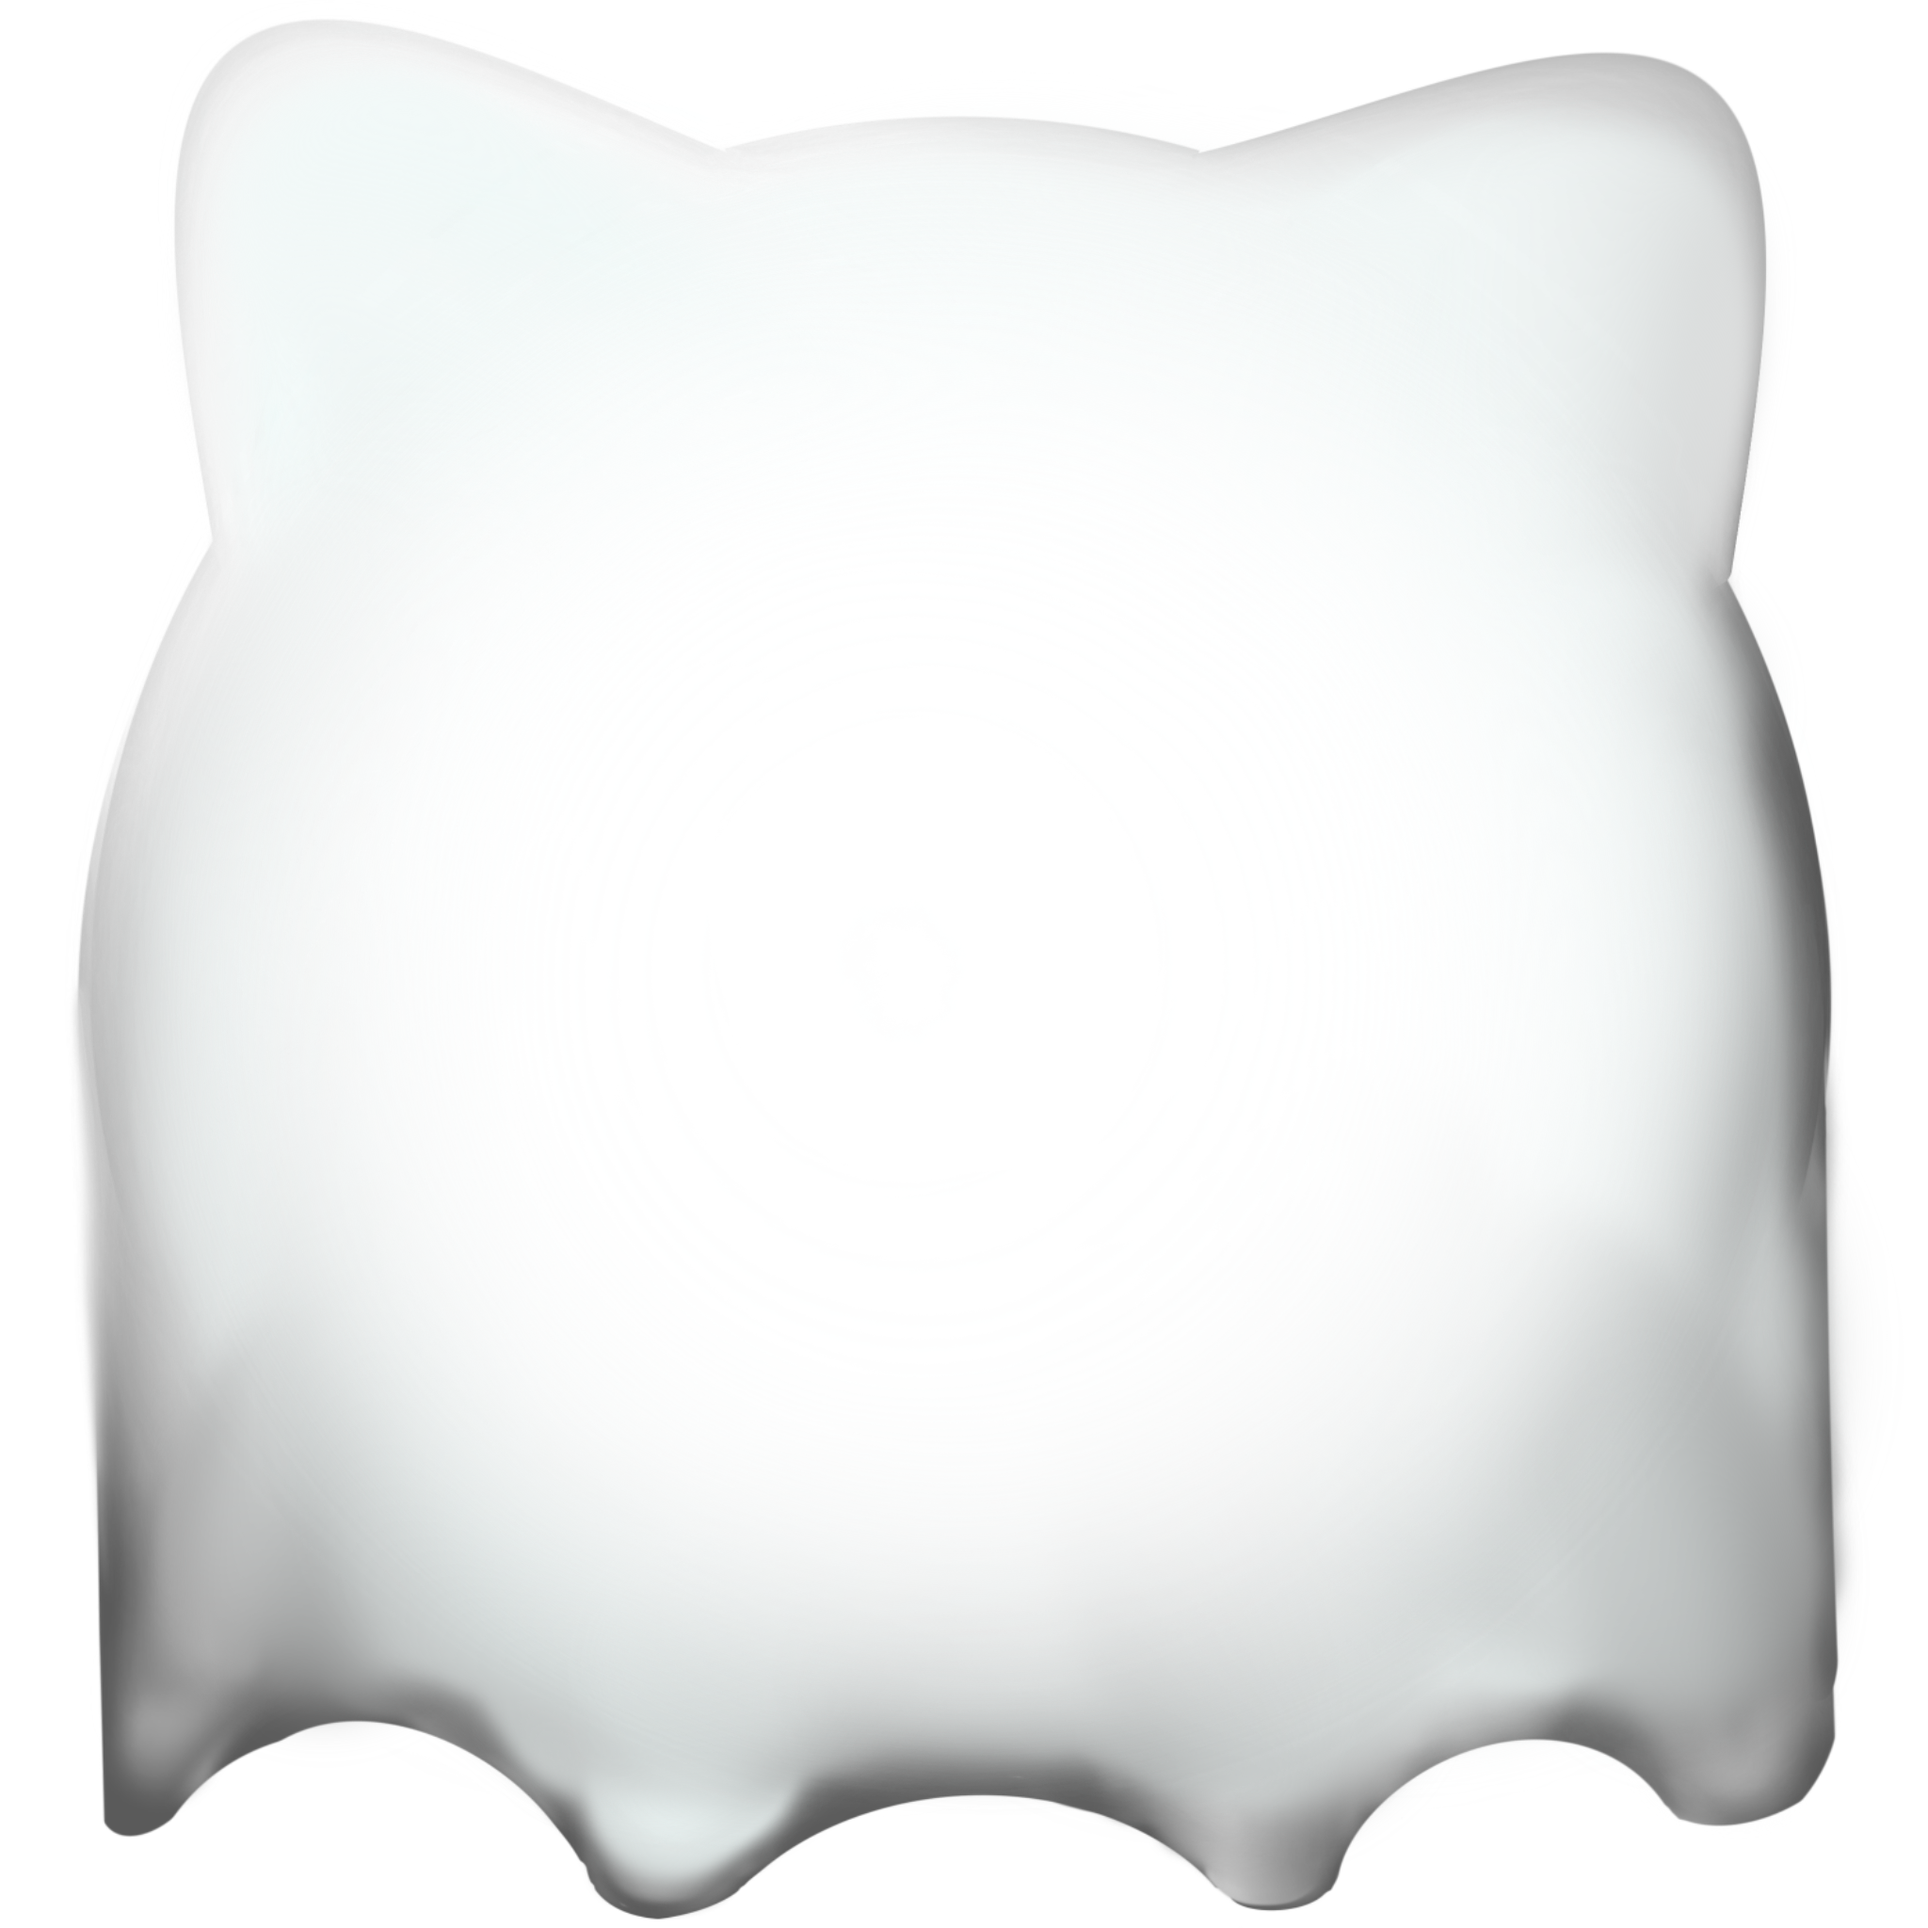
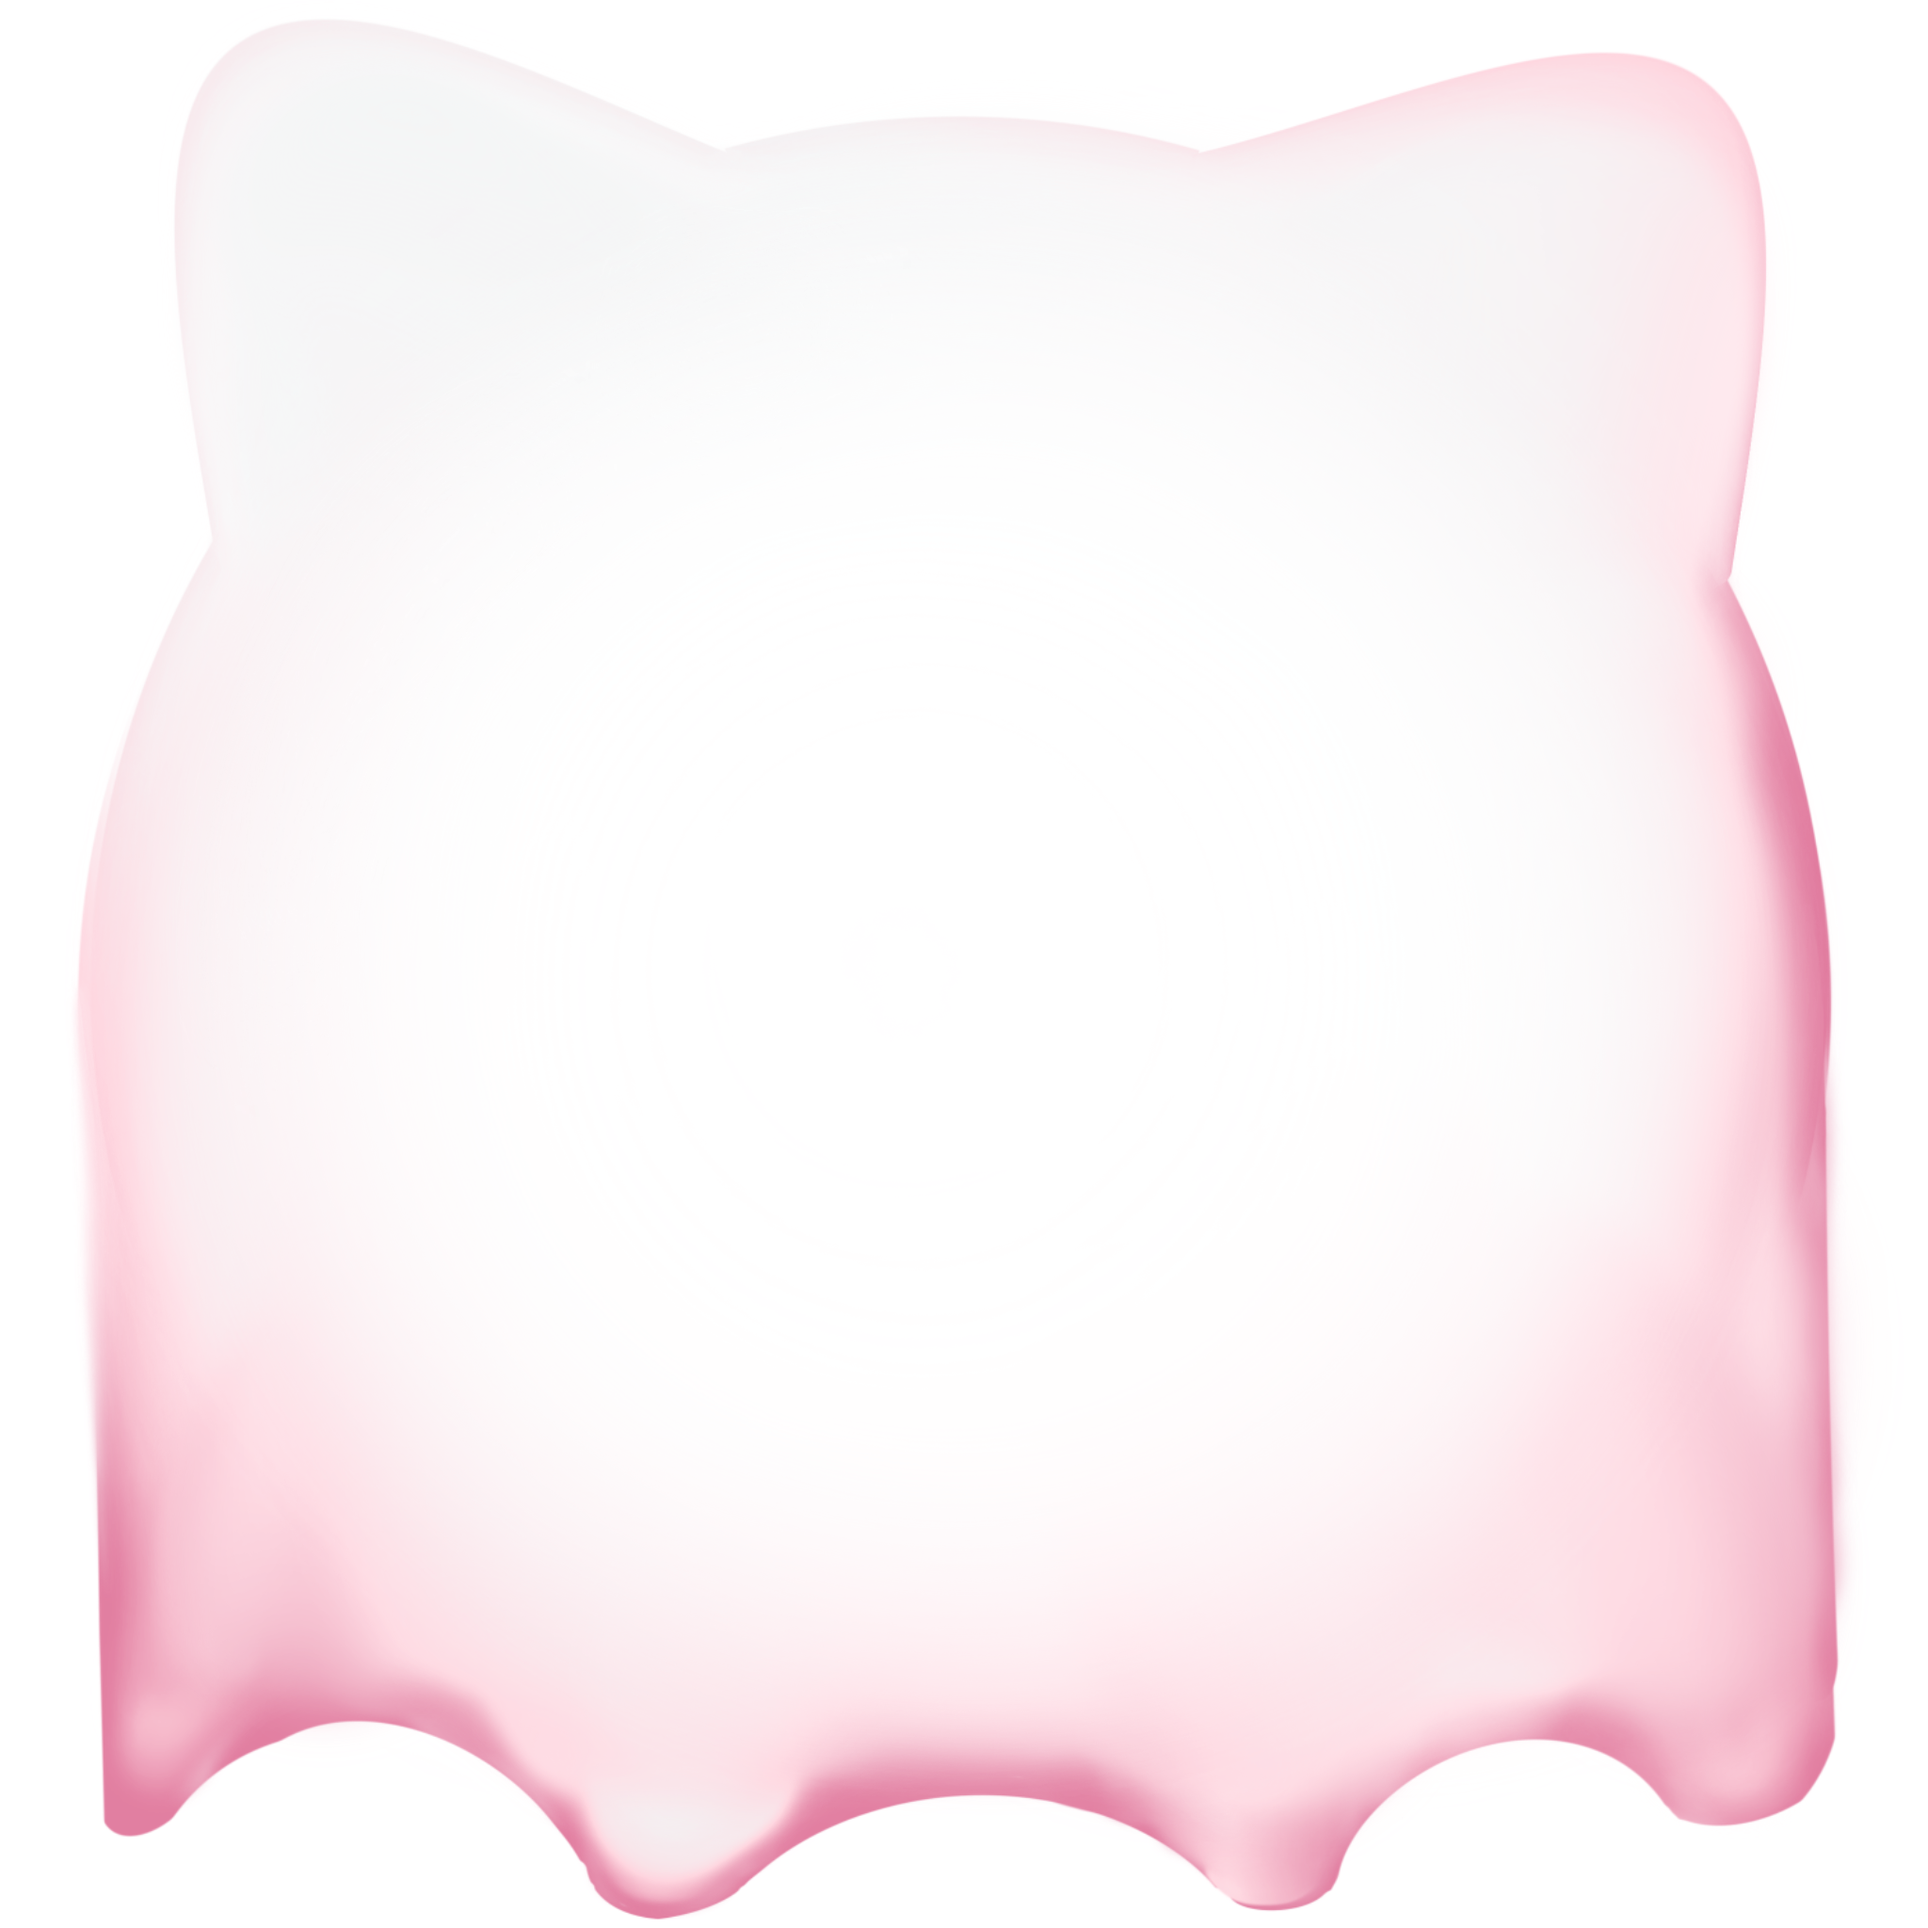
particle fixes

Changed region(s): [[0.0312, 0.0, 0.9688, 1.0]]

diff --git a/src/main.cpp b/src/main.cpp
@@ -354,25 +354,29 @@ void emit_particles(const App* app, Particle* particles, int x, int y, SDL_Color
 		particle->vx = cosf(angle) * speed;
 		particle->vy = sinf(angle) * speed;
 		particle->lifetime = (float)(rand() % 1000 + 100) / 1000.0f;
-		particle->bubble.color = color;
 
 		int num = (rand() % 10 + 1);
 		switch (num)
 		{
 		case 1:
 			particle->sprite = Sprite::ParticleKot;
+			particle->bubble.color = color;
 			break;
 		case 2:
 			particle->sprite = Sprite::ParticleGhost;
+			particle->bubble.color = bubble_white;
 			break;
 		case 3:
 			particle->sprite = Sprite::ParticleGhostCat;
+			particle->bubble.color = bubble_white;
 			break;
 		case 4:
 			particle->sprite = Sprite::ParticleClick;
+			particle->bubble.color = bubble_white;
 			break;
 		default:
 			particle->sprite = Sprite::ParticleBasic;
+			particle->bubble.color = color;
 			break;
 		}
 	}
@@ -488,12 +492,12 @@ void update(const App* app,
 				if (*particle_count + total_emit_count > particle_capacity)
 				{
 					uint32_t difference = particle_capacity - *particle_count;
-					emit_particles(app, particles + difference, mx, my, bubble_blue_bright, difference);
+					emit_particles(app, particles + difference, mx, my, bubble_pink_bright, difference);
 					*particle_count = particle_capacity;
 				}
 				else
 				{
-					emit_particles(app, particles + *particle_count, mx, my, bubble_blue_bright, total_emit_count);
+					emit_particles(app, particles + *particle_count, mx, my, bubble_pink_bright, total_emit_count);
 					*particle_count = *particle_count + total_emit_count;
 				}
 			}
@@ -795,15 +799,15 @@ void render(App* app, PlayerBubble* bubbles, size_t count)
 			}
 			if (player_bubble->has_dead_eyes)
 			{
-				render(app, bubble, Sprite::BubbleDead);
+				render(app, bubble, Sprite::BubbleDead,false);
 			}
 			if (player_bubble->has_ghost_eyes)
 			{
-				render(app, bubble, Sprite::BubbleGhostEyes);
+				render(app, bubble, Sprite::BubbleGhostEyes,false);
 			}
 			if (player_bubble->has_has_weird_mouth)
 			{
-				render(app, bubble, Sprite::BubbleWeirdMouth);
+				render(app, bubble, Sprite::BubbleWeirdMouth,false);
 			}
 
 			if (player_bubble->has_glasses)
